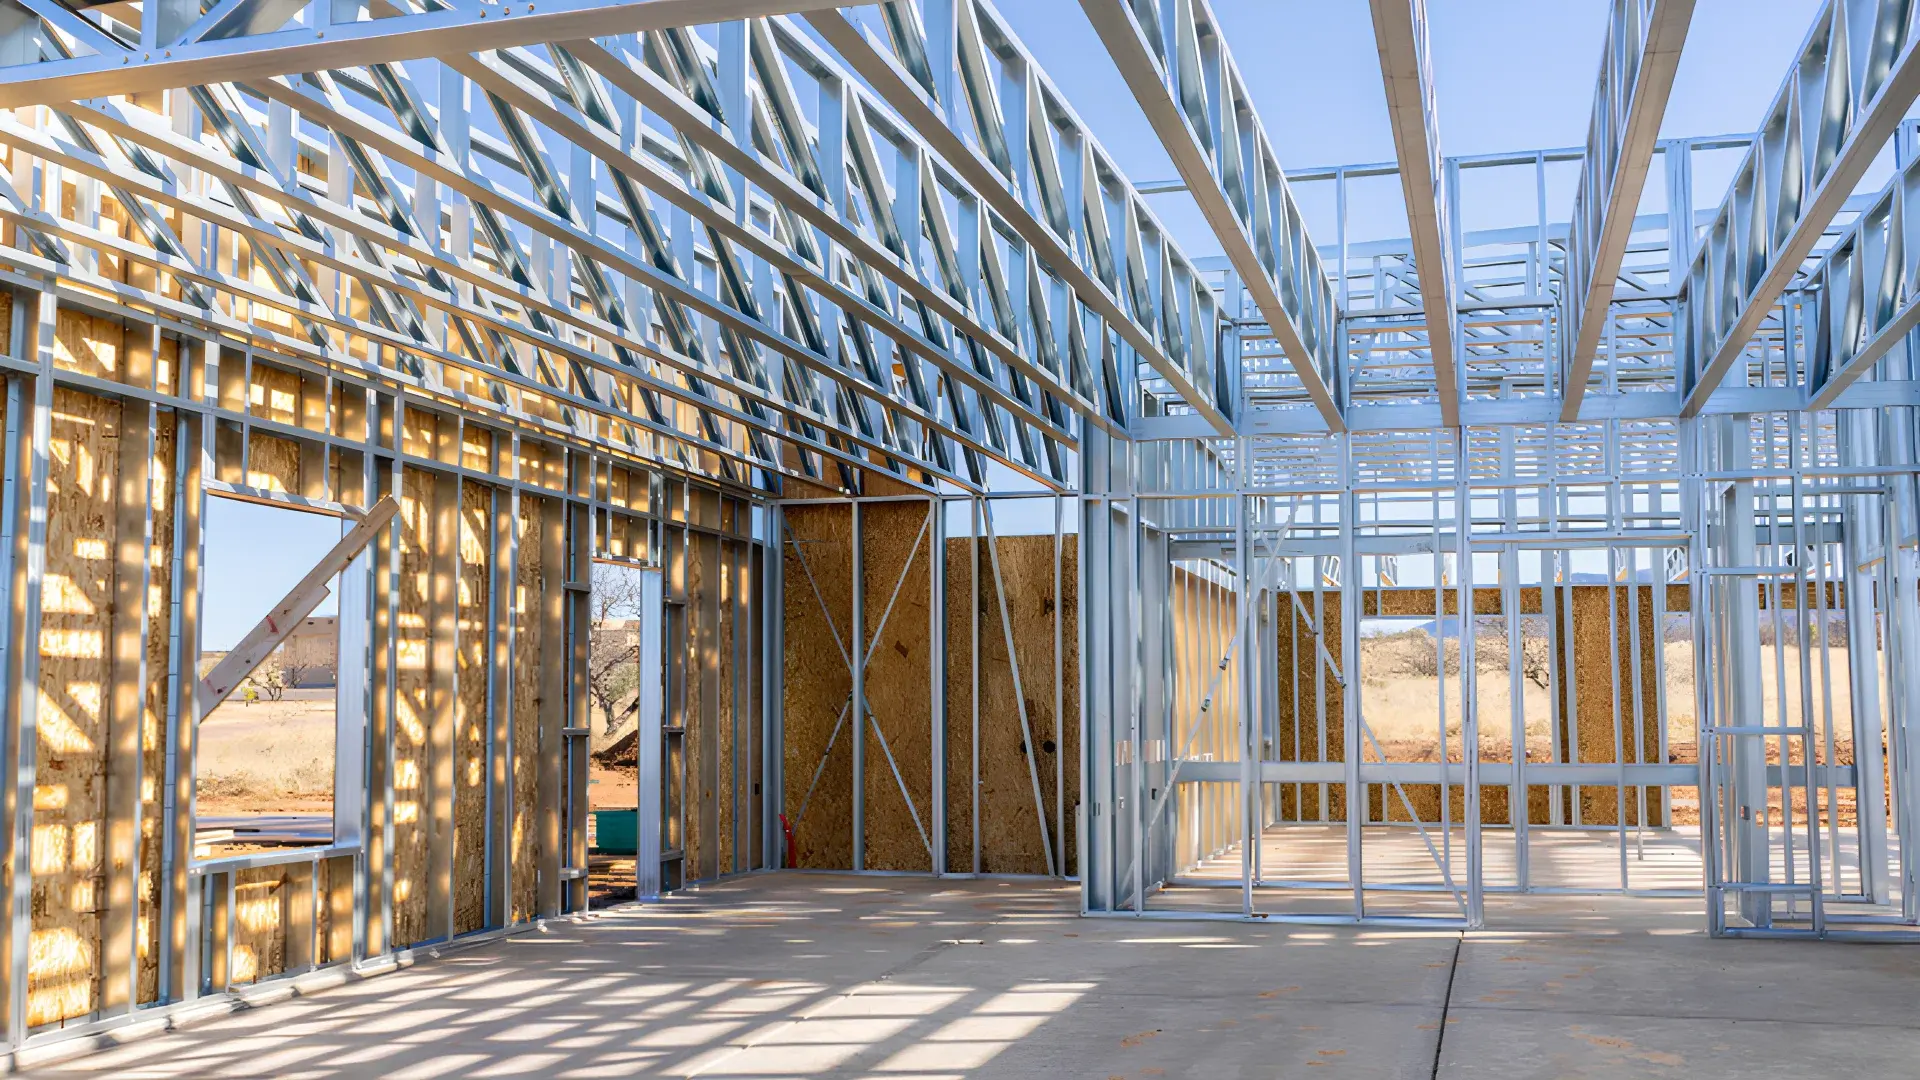
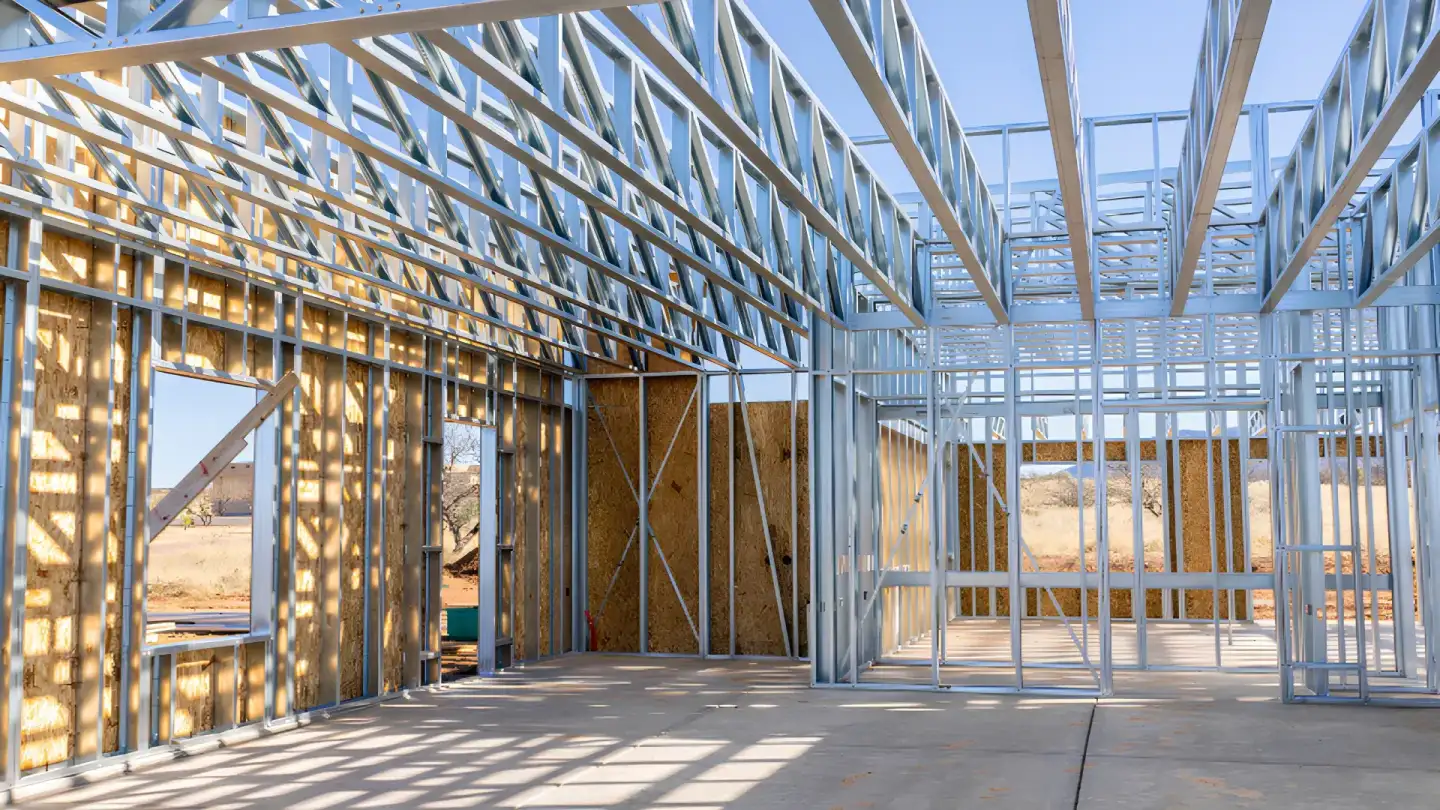
perf(images): Aggressive recompression — quality 55-60, smaller maxWidth
Second optimization pass based on PageSpeed Insights (697 KiB savings flagged).

Results: 1,578 KB → 703 KB total (-875 KB, 55% reduction)
- Hero carousel (quality 75→60, maxWidth 1920→1440): -544 KB
- Gallery (quality 75→55, maxWidth 1440→800): -185 KB
- Body images (quality 75→60, maxWidth →900): -146 KB

Also add sizes attr to Gallery.tsx and LSFIntro.tsx for browser display hints.

diff --git a/components/sections/Gallery.tsx b/components/sections/Gallery.tsx
@@ -14,6 +14,7 @@ export function Gallery() {
                 alt="Residência em Light Steel Frame - Projeto Berkahn"
                 width={2048}
                 height={1152}
+                sizes="(max-width: 768px) 100vw, 50vw"
                 className="w-full h-64 lg:h-80 object-cover group-hover:scale-105 transition-transform duration-500"
               />
             </Link>
@@ -23,6 +24,7 @@ export function Gallery() {
                 alt="Edifício Comercial em Steel Frame - Projeto Berkahn"
                 width={2048}
                 height={1152}
+                sizes="(max-width: 768px) 100vw, 50vw"
                 className="w-full h-64 lg:h-80 object-cover group-hover:scale-105 transition-transform duration-500"
               />
             </Link>

diff --git a/components/sections/LSFIntro.tsx b/components/sections/LSFIntro.tsx
@@ -14,6 +14,7 @@ export function LSFIntro() {
               alt="Estrutura Light Steel Frame"
               width={1920}
               height={1080}
+              sizes="(max-width: 1024px) 100vw, 50vw"
               className="w-full h-auto object-cover"
             />
           </RevealOnScroll>
